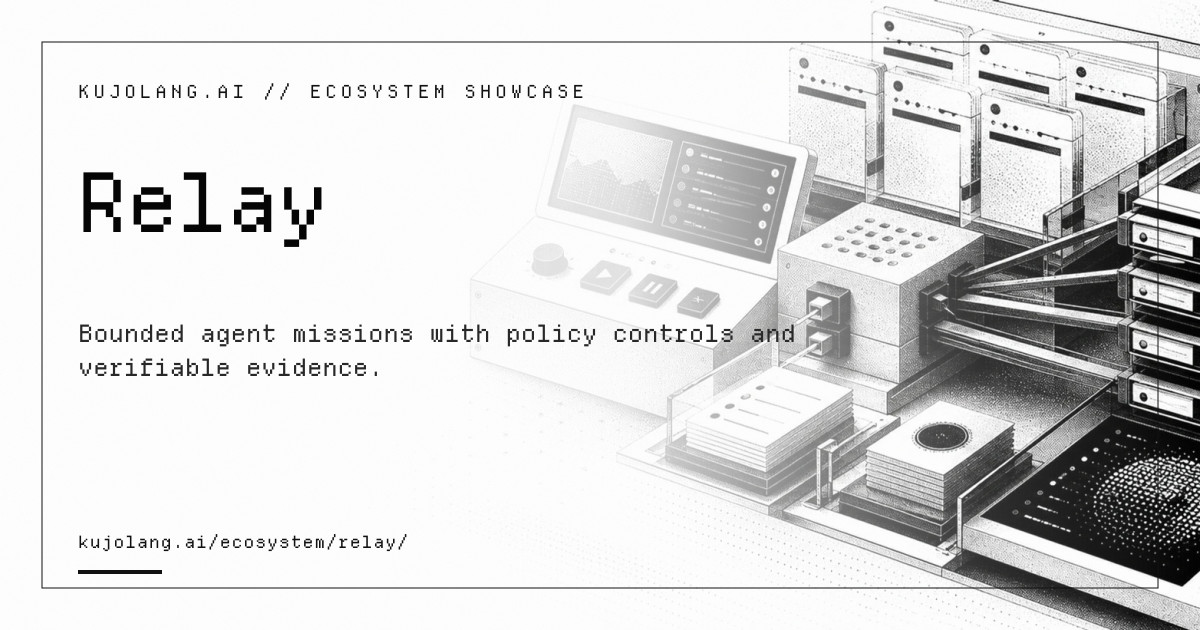
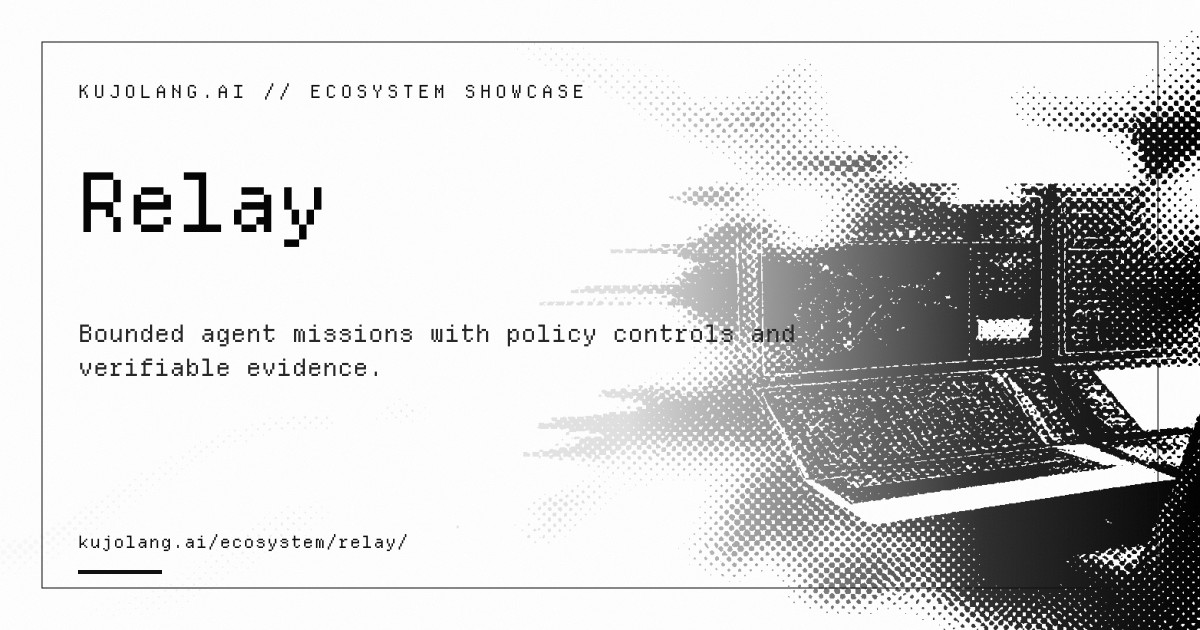
feat(ecosystem): refresh Relay and Tribunal artwork

Changed region(s): [[0.4317, 0.0, 1.0, 1.0]]

diff --git a/CHANGELOG.md b/CHANGELOG.md
@@ -12,6 +12,10 @@ All notable changes to Kujolang.ai are documented here. Releases follow semantic
 
 - Nested missing routes now render the styled custom 404 with root-safe assets, useful recovery links, and explicit `noindex` handling.
 
+### Changed
+
+- Relay and Tribunal hero artwork now use stark, pure black-and-white dithered compositions with fragmented subjects and larger negative-space fields; their Howl social cards were regenerated from the new source art.
+
 ## [1.0.0] - 2026-08-08
 
 The first production release of the official Kujo programming language website.
